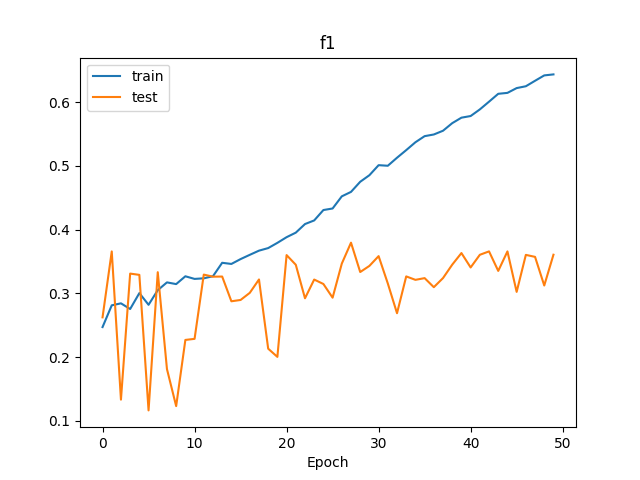
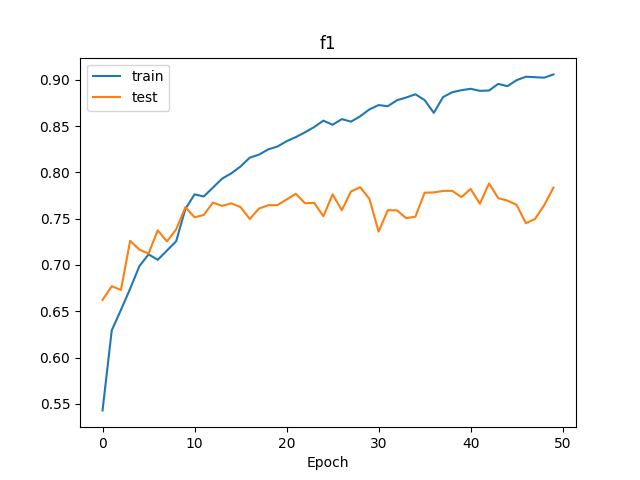
Initial promising results

diff --git a/train/generator.py b/train/generator.py
@@ -20,14 +20,14 @@ class Generator(object):
                                                          target_size=self._input_shape[:2],
                                                          batch_size=batch_size,
                                                          color_mode=color_mode,
-                                                         class_mode='binary')
+                                                         class_mode='categorical')
 
     def flow_from_validation_dir(self, color_mode='rgb', batch_size=16):
         return self._train_generator.flow_from_directory(os.path.join(self._data_path, 'train'),
                                                          target_size=self._input_shape[:2],
                                                          batch_size=batch_size,
                                                          color_mode=color_mode,
-                                                         class_mode='binary',
+                                                         class_mode='categorical',
                                                          subset='validation',
                                                          shuffle=False)
 
@@ -36,4 +36,4 @@ class Generator(object):
                                                         target_size=self._input_shape[:2],
                                                         batch_size=batch_size,
                                                         color_mode=color_mode,
-                                                        class_mode='binary')
+                                                        class_mode='categorical')

diff --git a/train/train_resnet.py b/train/train_resnet.py
@@ -11,14 +11,14 @@ class ResNetTrainer(ModelTrainer):
     def init_model(self):
         self._model = ResNetModel(self._input_shape, self._num_classes)
         self._model.init(32, 128, 0.5)
-        self._model.compile(loss='binary_crossentropy',
+        self._model.compile(loss='categorical_crossentropy',
                             optimizer='adam',
                             metrics=['accuracy', f1, recall, precision])
 
 
 if __name__ == '__main__':
-    trainer = ResNetTrainer('../images-resized-split-binary', (40, 32, 3), 2)
+    trainer = ResNetTrainer('../images-resized-split', (40, 32, 3), 12)
     trainer.train(rescale=None, color_mode='rgb', epochs=50)
-    trainer.plot_history(prefix='resnet_no_augmentation_resized_binary', output_dir='results')
+    trainer.plot_history(prefix='resnet_no_augmentation_resized', output_dir='results')
     print(trainer.evaluate(color_mode='rgb'))
-    trainer.save_model('./results/resnet_no_augmentation_resized_binary.h5')
+    trainer.save_model('./results/resnet_no_augmentation_resized.h5')

diff --git a/data/splitter.py b/data/splitter.py
@@ -9,7 +9,7 @@ from data.parser import Parser
 class Splitter(object):
     def __init__(self, data_path, split_ratio):
         self._images_path = os.path.join(data_path, 'images-resized')
-        self._out_path = os.path.join(data_path, 'images-resized-split-binary')
+        self._out_path = os.path.join(data_path, 'images-resized-split')
         self._split_ratio = split_ratio
         self._parser = Parser(data_path)
 
@@ -59,5 +59,5 @@ class Splitter(object):
 
 if __name__ == '__main__':
     splitter = Splitter('../', 0.9)
-    # splitter.split()
-    splitter.split_binary()
+    splitter.split()
+    # splitter.split_binary()
